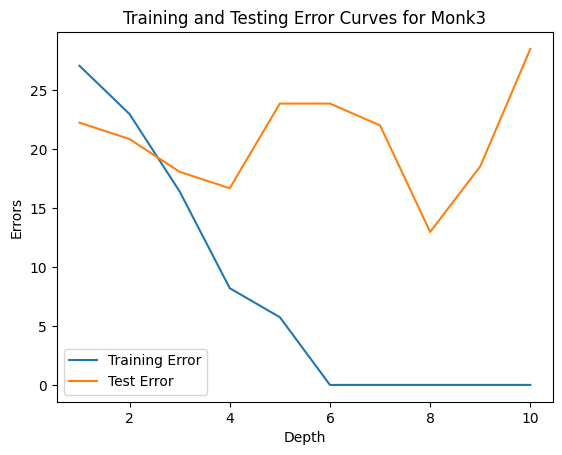
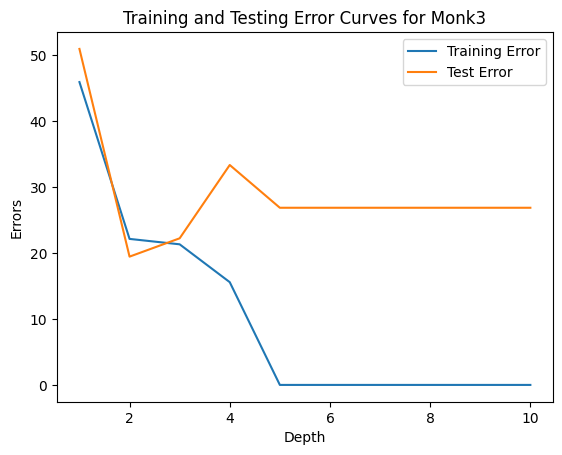
edits

diff --git a/decisionTree.py b/decisionTree.py
@@ -13,11 +13,11 @@ class decisionTree:
 
         #the root node
         self.root = None
-        
+
         #a var to hold the list of trainingExamples
         self.trainingData = t #a list of training examples
         self.maxDepth = maxDepth
-        
+
         #since all examples are of the same length, we check the first
         #example in the list to find how many features does our examples have
         self.numFeatures = len(t[0].featureVector)
@@ -27,14 +27,14 @@ class decisionTree:
 
         #the set of features, from 0 through n, stored as a list
         featureSet = list(range(0, self.numFeatures))
-        
+
         #the set of labels, stored as a label. Most often it is 0 and 1
         #but this allows easy extension to multi-class cases
         labelSet = list(set([x.label for x in self.trainingData]))
-        
+
         #a copy of the trainingData
         data = self.trainingData
-        
+
         #a call on the recursive method to start the actual training process
         #starting at the root node.
         self.root = decisionTree.train_rec(data, labelSet, featureSet, self.maxDepth)
@@ -52,7 +52,7 @@ class decisionTree:
 
         #create a list of 0's the size of the label set
         c_list = [0] * len(labelSet_l)
-        
+
         #we zip the list with the list representing the set of labels to form a dict
         labelSet = dict(zip(labelSet_l, c_list))
         #the dict will look something like {label1:0, label2:0}
@@ -99,21 +99,21 @@ class decisionTree:
         for z in currFeatVals:
             #send only those data points which have the value z for the decidingFeature
             td = ax.filterOn(currFeat, z, data)
-            
+
             #create a shallow copy of our set of features
             nfs = featureSet.copy()
-            
+
             #remove the decidingFeature from the set of features left to classify on
             #only for this sub-tree
             nfs.remove(currFeat)
-            
+
             #make a recursive call to the training function
             #params are : td = the filtered training data, labelSet_l = the set of
             #labels/classes, nfs = a modified copy of the feature set,
             #depth = depth reduced by 1 since a node has been added.
             #nodeVal for the child is the decidingFeature's filtered on val
             x = decisionTree.train_rec(td, labelSet_l, nfs, depth-1, nodeVal=z)
-            
+
             #once the recursive call to train returns, we append the child + its
             #sub-tree to the list of children for this node.
             currNode.children.append(x)
@@ -146,7 +146,7 @@ class decisionTree:
         if(node.isLeaf):
             ret = "\t"*level+'Node value = '+str(node.val)+"\n"
             ret += "\t"*level+'Label value = '+str(node.label)+"\n\n"
-        
+
         #else add the node's value, its decidingFeature and the set of values possible
         #for that feature.
         else:
@@ -175,7 +175,7 @@ class decisionTree:
 
             #attribute/feature to filter on is the current node's decidingFeature
             attNo = currNode.decidingFeature
-            
+
             #a copy of the node we begin at.
             startNode = currNode
 
@@ -191,12 +191,12 @@ class decisionTree:
                     #if such a child is found we break and go back to the while loop
                     #and begin our check again.
                     break
-            
+
             #if no such child is found, then our startNode is still the current node
             if(startNode == currNode):
                 #in such a case, we break the while loop.
                 break
-        
+
         #if we have exit the while loop, we return the following info
         return (currNode.label, t.label, currNode.label == t.label)
 
@@ -206,7 +206,7 @@ class decisionTree:
     def testBatch(self, data):
         #a function to test a batch of testExamples
         retList = []
-        
+
         #create a progress bar, it tracks the progress of our batch processing
         bar = Bar('Processing', max=len(data))
 
@@ -217,35 +217,34 @@ class decisionTree:
             retList.append(self.testSingle(t=x, node=root))
             #progress the bar after each example is processed.
             bar.next()
-        
+
         #finish the the bar.
         bar.finish()
-        
+
         #return the results for all examples as a list
         return retList
-    
-    
+
+
     @classmethod
     # Use entropy/information gain to select the feature to split on
     def selectFeature(self, featureSet, data):
-        
         # Create a list to hold the entropy values
         entropyVals = []
 
         # Number of data points in the current node
         dataSize = len(data)
-        
+
         # for each feature
         for index in range(0,len(featureSet)):
 
             currFeat = featureSet[index]
 
             #create a set of all possible values for that attribute/feature
-            currFeatVals = list(set([j.currFeat for j in data]))
-            
+            currFeatVals = list(set([j.featureVector[index] for j in data]))
+
             # Count for how many times each value appears for that feature appears
             valueCounts = []
-            
+
             # for each possible value for that attribute/feature
             conditEntro = []
             for x in currFeatVals:
@@ -253,10 +252,10 @@ class decisionTree:
                 # create a subset of the data points which have the value x for the Feature
                 td = ax.filterOn(currFeat, x, data)
                 valueCounts.append(len(td)) # how many data points have that value
-                
+
                 # determine the new labelSet
                 newlabelSet = list(set([y.label for y in td]))
-                
+
                 # Count how many times each label appears for that feature value
                 labelCounts = []
                 for label in newlabelSet:
@@ -270,21 +269,23 @@ class decisionTree:
                 for labelCount in labelCounts: # for each label
                     prob = labelCount/len(td)
                     sum = sum - prob*math.log(prob,2)
-                
+
                 # conditional entropies for one value of the feature
                 conditEntro.append(sum)
 
+            #print((len(conditEntro) == len(valueCounts)))
+
             # calculate the feature's entropy by taking weighted average
             entropyForFeat = 0
-            for k in currFeatVals:
+            for k in range(len(currFeatVals)):
                 entropyForFeat = entropyForFeat + (valueCounts[k]/dataSize)*conditEntro[k]
-            
+
             # Save the feature's entropy to the list of entropy values
             entropyVals.append(entropyForFeat)
-          
-        # Now we have the entropy value for each feature, 
+
+        # Now we have the entropy value for each feature,
         # The feature with the lowest entropy has the highest information gain
-        selectedFeatIndex = entropyVals.index(min(entropyVals))
-        selectedFeat = featureSet[selectedFeatIndex]
-        
-        return selectedFeat
+            selectedFeatIndex = entropyVals.index(min(entropyVals))
+            selectedFeat = featureSet[selectedFeatIndex]
+
+            return selectedFeat
